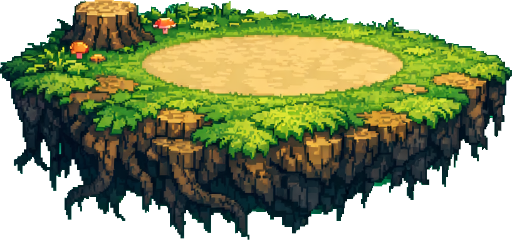
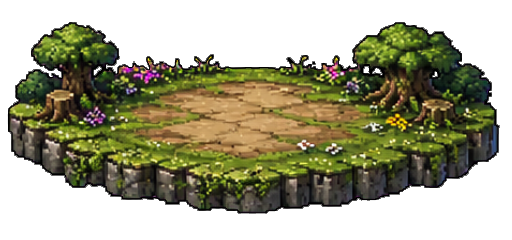
Update terrain platform images and adjust calibration values for improved gameplay experience
- Replaced opponent and player platform images for arenas 1 and 2 to enhance visual quality.
- Updated ovalSurfaceY calibration value in platform metrics for better alignment with new sprite dimensions.
- Removed unused calibration constants to streamline code and improve maintainability.

diff --git a/src/lib/sprites.ts b/src/lib/sprites.ts
@@ -183,7 +183,7 @@ export interface PlatformCalibration {
 
 const ARENA_1_CALIBRATION: PlatformCalibration = {
   nativeH: 240,
-  ovalSurfaceY: 97 / 240,
+  ovalSurfaceY: 128 / 240,
 }
 
 export interface TerrainDescriptor {
@@ -242,11 +242,6 @@ const DEFAULT_TERRAIN: TerrainDescriptor = {
   opponentPlatformWidth: null,
 }
 
-const ARENA_2_CALIBRATION: PlatformCalibration = {
-  nativeH: 240,
-  ovalSurfaceY: 0.38, // TODO: tune visually until sprite feet land on oval
-}
-
 const ARENA_TERRAIN: Partial<Record<string, TerrainDescriptor>> = {
   '37543fca-9f22-41c7-83b5-2ded30d7b063': {
     playerPlatformUrl: s('/terrain/arena_1_player_platform.png'),
@@ -259,10 +254,8 @@ const ARENA_TERRAIN: Partial<Record<string, TerrainDescriptor>> = {
   'ca277fd4-1dd0-4e6e-a50b-c95bbd878395': {
     playerPlatformUrl: s('/terrain/arena_2_player_platform.png'),
     playerPlatformRenderedWidth: 320,
-    playerPlatformCalibration: ARENA_2_CALIBRATION,
     opponentPlatformUrl: s('/terrain/arena_2_opponent_platform.png'),
     opponentPlatformWidth: 224,
-    opponentCalibration: ARENA_2_CALIBRATION,
     accentColor: '#f97316', // arena_2 — ember orange
   },
   'a353973e-46fe-4757-a90d-a409beddc644': {

diff --git a/src/components/battle/worldMapLayout.ts b/src/components/battle/worldMapLayout.ts
@@ -34,7 +34,7 @@ export const ARENA_META_FONT_SIZE = 10
 
 export const DEFAULT_PLATFORM_CALIBRATION: PlatformCalibration = {
   nativeH: 240,
-  ovalSurfaceY: 97 / 240,
+  ovalSurfaceY: 128 / 240,
 }
 
 export interface HubPlatformMetrics {
